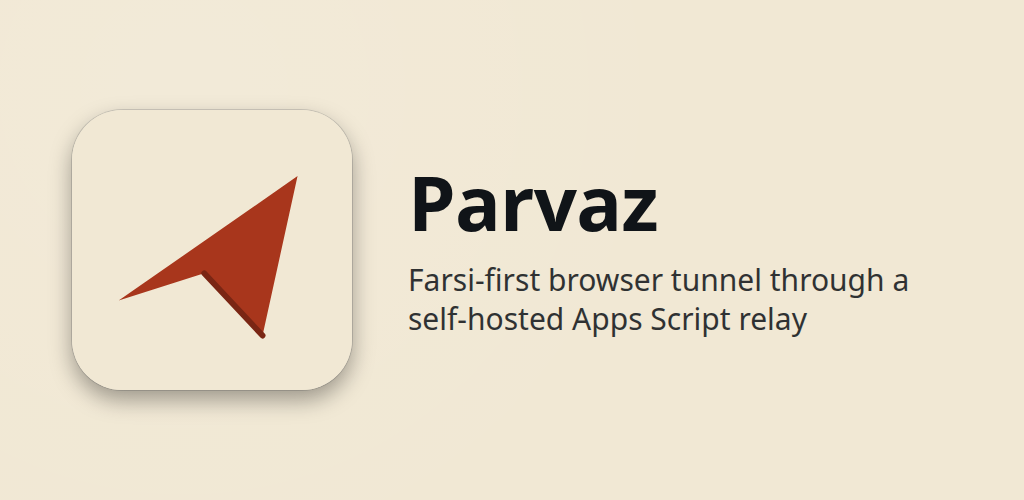
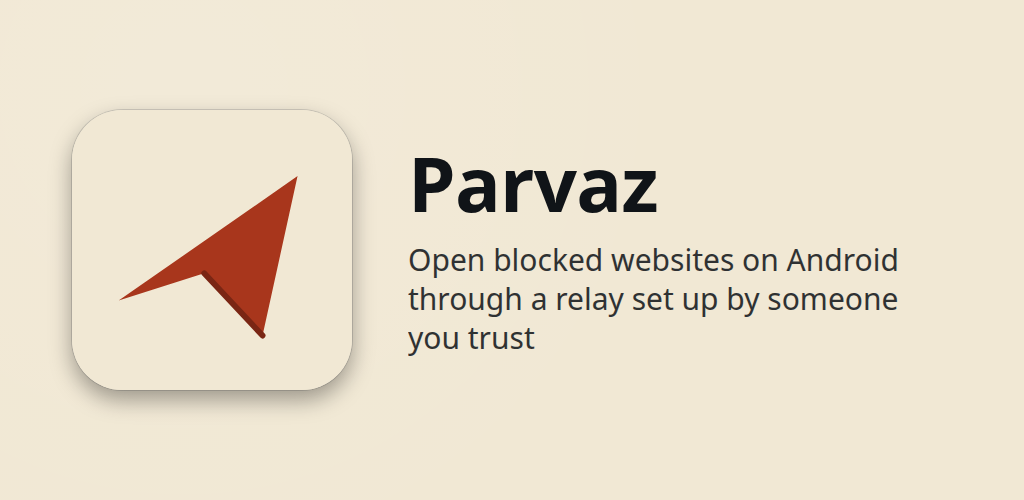
fix: a correct share image, and the certificate copy's folder in the Danish policy
website/og.png still showed the old "CLEARED" and "FIREFOX NIGHTLY" stamp.
It is now drawn by tools.art from the app icon and the new en-US short
description (1200x630), and the store feature graphic is redrawn from the
same text. The image alt text on the three home pages describes it.

The Danish privacy page says, as the English one now does, that the
certificate copy goes to Downloads on Android 10 and later and to the
app's own download folder on Android 9 and older (CaExporter.kt:59-62,
73, 101-111).

Claude-Session: https://claude.ai/code/session_01EduxjKmfMFTAd8K553rQMR

Changed region(s): [[0.375, 0.3, 0.9062, 0.72]]

diff --git a/website/da/privacy/index.html b/website/da/privacy/index.html
@@ -120,7 +120,7 @@
     <li><strong>Din adgangsnøgle</strong> gemmes i krypteret lager. Nøglen, der låser det op, ligger i Android Keystore, den del af Android, der opbevarer krypteringsnøgler.</li>
     <li><strong>Relayets implementerings-id, teksten efter <code>#</code> i dit link, appens sprog og om opsætningen er færdig</strong> gemmes i appens almindelige indstillinger.</li>
     <li><strong>Parvaz' egen CA</strong> er et certifikat og dets private nøgle. Appen opretter dem på din telefon og gemmer dem i sine private filer. Den, der havde den private nøgle, kunne lave certifikater, som din telefon stoler på, så Parvaz eksporterer den aldrig. Til hver side, du besøger, laver tunnelen et certifikat og beholder det kun i hukommelsen.</li>
-    <li><strong>En kopi af CA-certifikatet</strong> (aldrig nøglen) lægges i din Downloads-mappe som <code>parvaz-ca-&hellip;.crt</code>. Du vælger filen i Androids indstillinger for at installere den. Parvaz sletter ældre kopier først. Du kan slette filen, når certifikatet er installeret.</li>
+    <li><strong>En kopi af CA-certifikatet</strong> (aldrig nøglen) gemmes som <code>parvaz-ca-&hellip;.crt</code>. På Android 10 og nyere lægges den i din Downloads-mappe. På Android 9 og ældre lægges den i stedet i Parvaz' egen download-mappe på telefonen (<code>Android/data/dk.cocode.parvaz/files/Download</code>). Du vælger filen i Androids indstillinger for at installere den. Parvaz sletter ældre kopier først. Du kan slette filen, når certifikatet er installeret.</li>
     <li><strong>Enhedens log.</strong> Mens Parvaz er forbundet, kan tunnelsoftwaren skrive IP-adressen og porten på en forbindelse, der ikke kunne åbnes, til Androids systemlog på din telefon.</li>
   </ul>
   <p>Androids sikkerhedskopiering er tilladt for appen. Sikkerhedskopiering kopierer appens data til din Google-konto, så en ny telefon kan gendanne dem. To ting er holdt uden for skybackup og overførsel fra telefon til telefon: filen med din adgangsnøgle og Parvaz' CA-filer. De almindelige indstillinger er ikke holdt uden for. Derfor kan implementerings-id, tekst og sprog blive kopieret til din Google-backup, hvis du har backup slået til.</p>

diff --git a/website/fa/index.html b/website/fa/index.html
@@ -21,7 +21,7 @@
 <meta property="og:image" content="https://parvaz.cocode.dk/og.png"/>
 <meta property="og:image:width" content="1200"/>
 <meta property="og:image:height" content="630"/>
-<meta property="og:image:alt" content="نام پرواز با حروف لاتین و فارسی، با جملهٔ «پروازی از روی فیلتر» و دو تمبر لاستیکی."/>
+<meta property="og:image:alt" content="نشان پرواز، یک هواپیمای کاغذی قرمز، کنار نام Parvaz و یک جملهٔ کوتاه انگلیسی دربارهٔ باز کردن وبسایتهای مسدود در اندروید."/>
 <meta property="og:locale" content="fa_IR"/>
 <meta property="og:locale:alternate" content="en_US"/>
 <meta property="og:locale:alternate" content="da_DK"/>
@@ -30,7 +30,7 @@
 <meta name="twitter:title" content="پرواز: پروازی از روی فیلتر"/>
 <meta name="twitter:description" content="در اندروید با Chrome و از طریق رلهای که آشنایی مورد اعتماد راهاندازی میکند، وبسایتهای مسدود را باز کنید. فارسی بهطور پیشفرض."/>
 <meta name="twitter:image" content="https://parvaz.cocode.dk/og.png"/>
-<meta name="twitter:image:alt" content="نام پرواز با حروف لاتین و فارسی، با جملهٔ «پروازی از روی فیلتر» و دو تمبر لاستیکی."/>
+<meta name="twitter:image:alt" content="نشان پرواز، یک هواپیمای کاغذی قرمز، کنار نام Parvaz و یک جملهٔ کوتاه انگلیسی دربارهٔ باز کردن وبسایتهای مسدود در اندروید."/>
 
 <link rel="icon" type="image/svg+xml" href="../parvaz-mark.svg"/>
 <link rel="preconnect" href="https://fonts.googleapis.com"/>

diff --git a/website/index.html b/website/index.html
@@ -22,7 +22,7 @@
 <meta property="og:image" content="https://parvaz.cocode.dk/og.png"/>
 <meta property="og:image:width" content="1200"/>
 <meta property="og:image:height" content="630"/>
-<meta property="og:image:alt" content="The name Parvaz in Latin and Persian letters, with the line A flight over the filter and two rubber stamps."/>
+<meta property="og:image:alt" content="The Parvaz icon, a red paper plane, next to the name Parvaz and the line: Open blocked websites on Android through a relay set up by someone you trust."/>
 <meta property="og:locale" content="en_US"/>
 <meta property="og:locale:alternate" content="da_DK"/>
 <meta property="og:locale:alternate" content="fa_IR"/>
@@ -32,7 +32,7 @@
 <meta name="twitter:title" content="Parvaz: a flight over the filter"/>
 <meta name="twitter:description" content="Open blocked websites on Android with Chrome, through a relay that a helper you trust sets up. Persian by default."/>
 <meta name="twitter:image" content="https://parvaz.cocode.dk/og.png"/>
-<meta name="twitter:image:alt" content="The name Parvaz in Latin and Persian letters, with the line A flight over the filter and two rubber stamps."/>
+<meta name="twitter:image:alt" content="The Parvaz icon, a red paper plane, next to the name Parvaz and the line: Open blocked websites on Android through a relay set up by someone you trust."/>
 
 <link rel="icon" type="image/svg+xml" href="parvaz-mark.svg"/>
 <link rel="preconnect" href="https://fonts.googleapis.com"/>

diff --git a/website/da/index.html b/website/da/index.html
@@ -22,7 +22,7 @@
 <meta property="og:image" content="https://parvaz.cocode.dk/og.png"/>
 <meta property="og:image:width" content="1200"/>
 <meta property="og:image:height" content="630"/>
-<meta property="og:image:alt" content="Navnet Parvaz med latinske og persiske bogstaver, med linjen En flyvning over filteret og to gummistempler."/>
+<meta property="og:image:alt" content="Parvaz-ikonet, et rødt papirfly, ved siden af navnet Parvaz og en kort engelsk linje om at åbne blokerede websteder på Android."/>
 <meta property="og:locale" content="da_DK"/>
 <meta property="og:locale:alternate" content="en_US"/>
 <meta property="og:locale:alternate" content="fa_IR"/>
@@ -32,7 +32,7 @@
 <meta name="twitter:title" content="Parvaz: en flyvning over filteret"/>
 <meta name="twitter:description" content="Åbn blokerede websteder på Android med Chrome, gennem et relay, som en hjælper, du stoler på, sætter op. Persisk som standard."/>
 <meta name="twitter:image" content="https://parvaz.cocode.dk/og.png"/>
-<meta name="twitter:image:alt" content="Navnet Parvaz med latinske og persiske bogstaver, med linjen En flyvning over filteret og to gummistempler."/>
+<meta name="twitter:image:alt" content="Parvaz-ikonet, et rødt papirfly, ved siden af navnet Parvaz og en kort engelsk linje om at åbne blokerede websteder på Android."/>
 
 <link rel="icon" type="image/svg+xml" href="../parvaz-mark.svg"/>
 <link rel="preconnect" href="https://fonts.googleapis.com"/>
